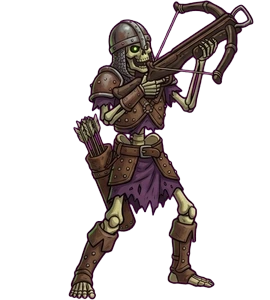
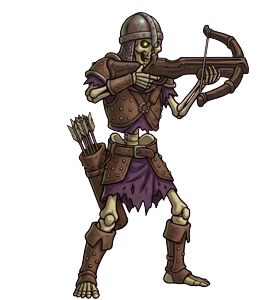
2. kademe arbaletçi geri tepme karesi yeniden (kiriş önde, cıvata yok); kare_degistir.py

Changed region(s): [[0.237, 0.0, 0.9481, 1.0]]

diff --git a/varliklar/kare_degistir.py b/varliklar/kare_degistir.py
@@ -1,0 +1,33 @@
+"""Tek bir poz karesini yeni Gemini görseliyle değiştirir; boy ve ayak hizası referans kareye (aynı karakterin başka pozu) eşitlenir.
+Ölçek: miğfer üstü → ayak altı (ince yay/kiriş uçları sayılmaz); ayak ortası ve taban referanstakiyle aynı yere, tuval boyu referansınki.
+    .venv/bin/python varliklar/kare_degistir.py ham/nm_kemik_arbaletci_k2_tepme.jpg unit_xbow2_aim unit_xbow2_kick
+"""
+import os, sys
+import numpy as np
+from PIL import Image
+from scipy import ndimage
+H0 = os.path.dirname(os.path.abspath(__file__)); sys.path.insert(0, H0)
+from anim_isle import remove_magenta
+IMG = os.path.join(H0, '..', 'sinir-kalesi', 'img')
+def run(row):
+    r = np.diff(np.concatenate([[0], row.astype(int), [0]])); s, e = np.nonzero(r == 1)[0], np.nonzero(r == -1)[0]
+    return (e - s).max() if len(s) else 0
+def metrics(A):
+    al = A[..., 3] > 100; ys, xs = np.nonzero(al); y0, y1 = ys.min(), ys.max() + 1; fig = y1 - y0
+    top = next(y for y in range(y0, y1) if run(al[y]) > 0.07 * fig)
+    fx = np.nonzero(al[y1 - int(0.04 * fig):y1].any(0))[0]
+    return dict(top=top, bot=y1, foot=(fx.min() + fx.max()) / 2, box=(xs.min(), y0, xs.max() + 1, y1))
+src, ref, out = sys.argv[1:4]
+A = remove_magenta(np.array(Image.open(os.path.join(H0, src)).convert('RGB')))
+a = A[..., 3] > 40; lab, n = ndimage.label(a); sz = ndimage.sum(a, lab, range(1, n + 1))
+main = lab == (int(np.argmax(sz)) + 1); near = ndimage.binary_dilation(main, iterations=3)
+keep = np.isin(lab, [j + 1 for j in range(n) if (near & (lab == j + 1)).any() and sz[j] > 30]); A[~ndimage.binary_dilation(keep, iterations=2), 3] = 0
+R = np.array(Image.open(os.path.join(IMG, ref + '.webp')).convert('RGBA'))
+m, r = metrics(A), metrics(R)
+s = (r['bot'] - r['top']) / (m['bot'] - m['top'])
+x0, y0, x1, y1 = m['box']
+crop = Image.fromarray(A[y0:y1, x0:x1]).resize((round((x1 - x0) * s), round((y1 - y0) * s)), Image.LANCZOS)
+can = Image.new('RGBA', (R.shape[1], R.shape[0]), (0, 0, 0, 0))
+can.paste(crop, (round(r['foot'] - (m['foot'] - x0) * s), round(r['bot'] - crop.height)), crop)
+can.save(os.path.join(IMG, out + '.webp'), 'WEBP', quality=92)
+print(out, 'ölçek', round(s, 3), 'tuval', can.size)
